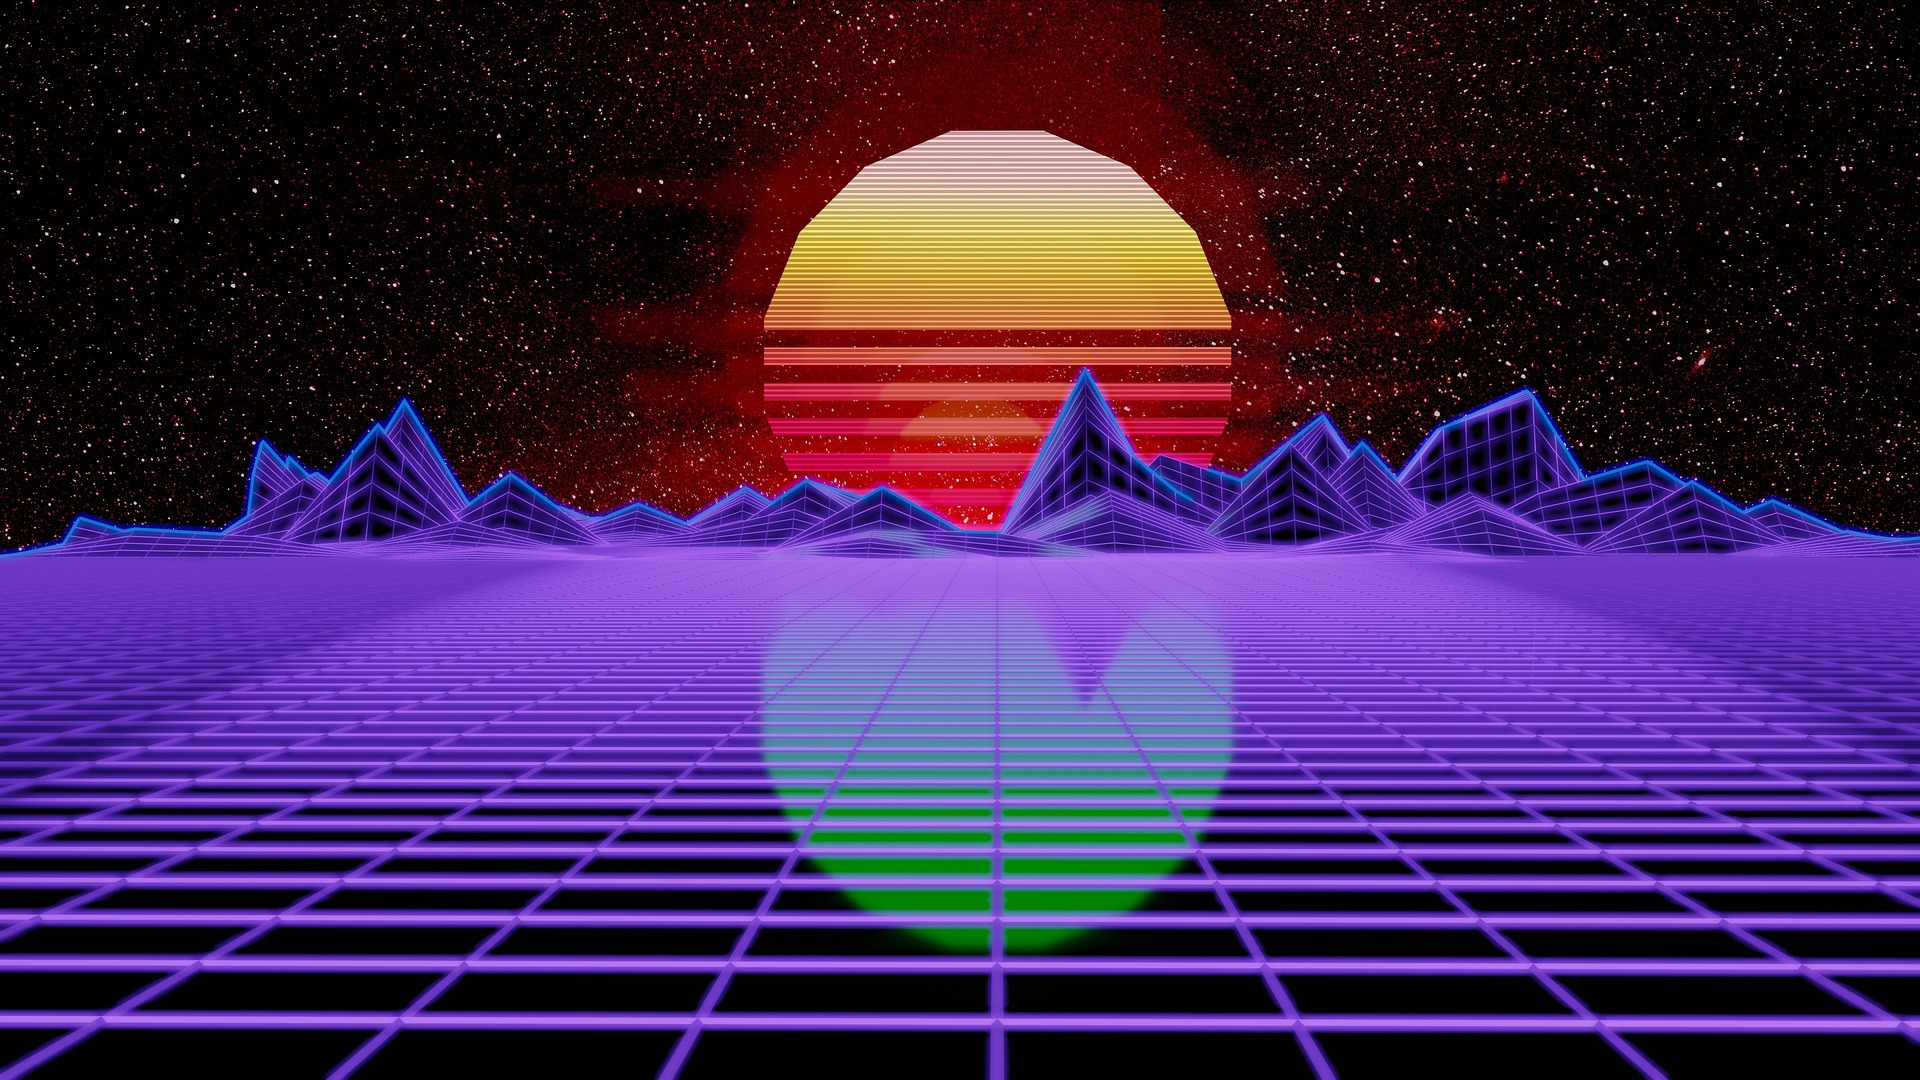
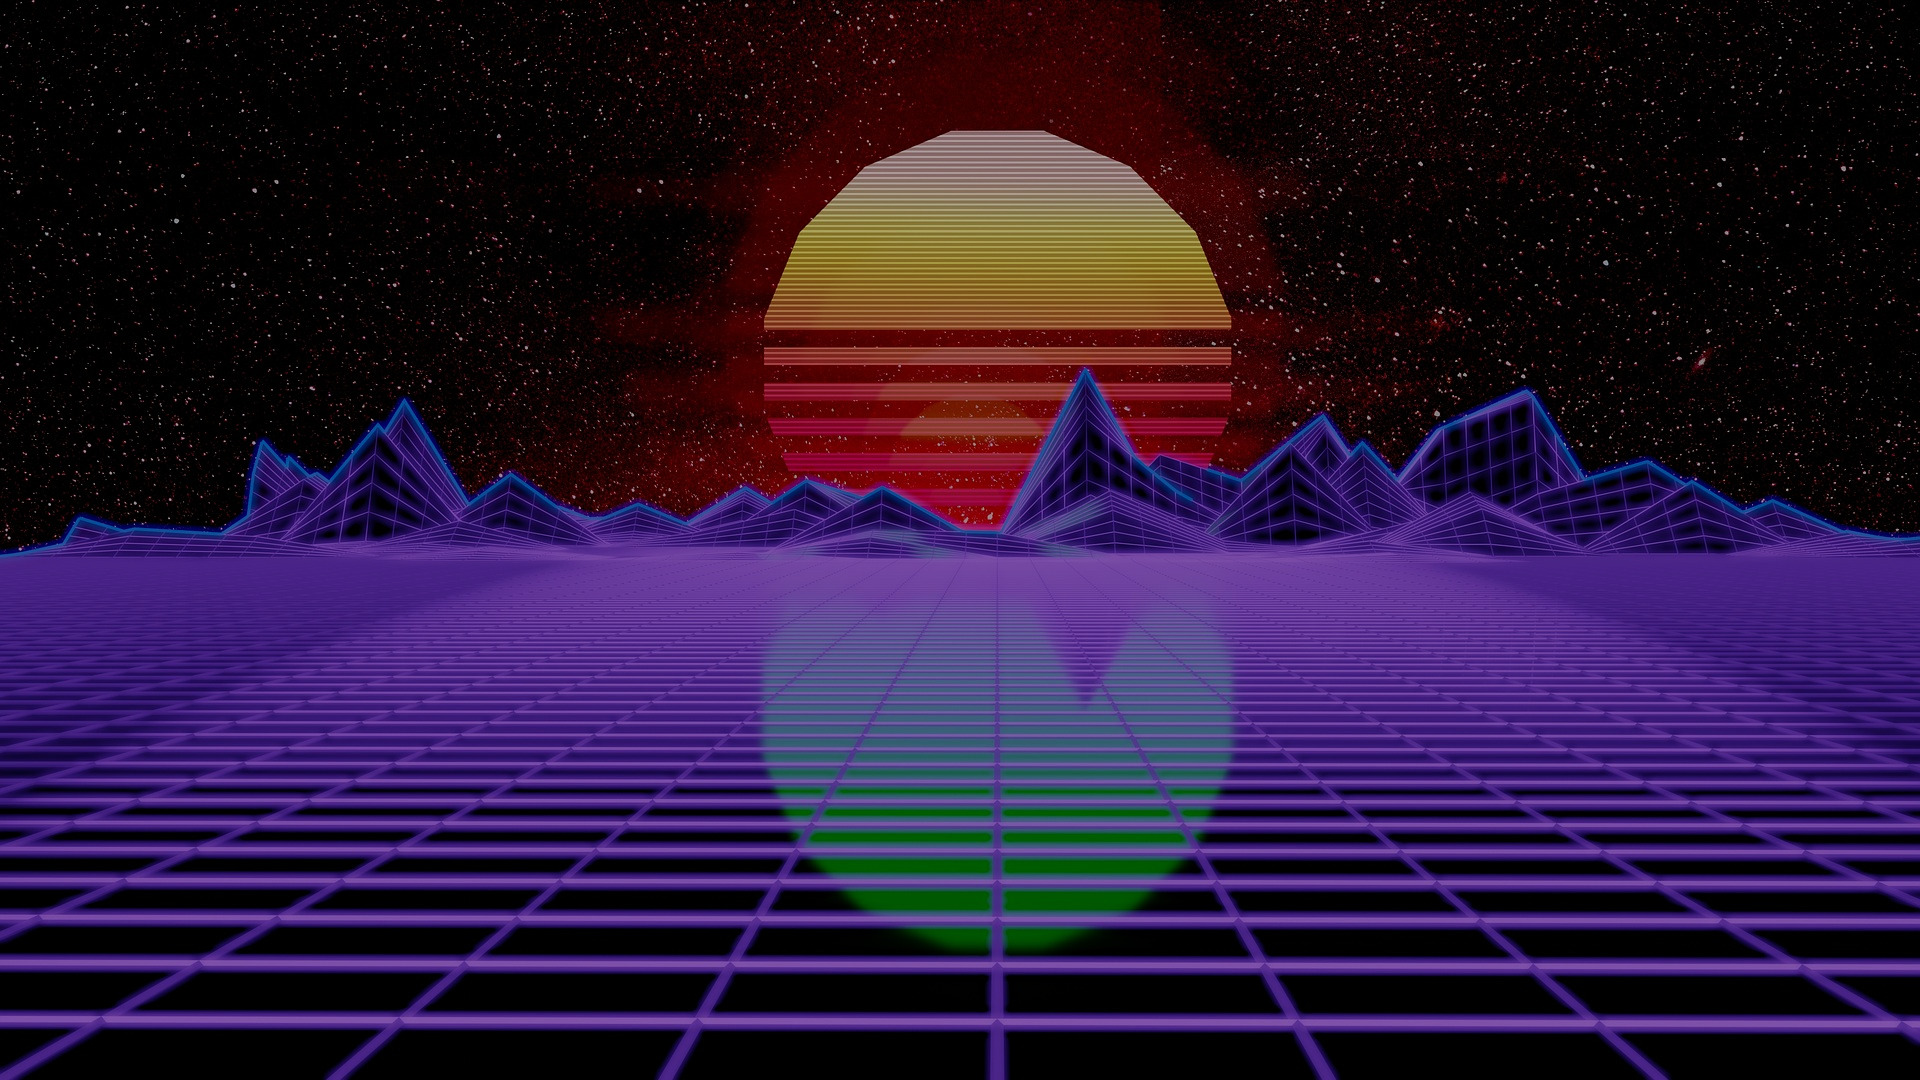
v01-01-24

diff --git a/src/templates/styles/default.css b/src/templates/styles/default.css
@@ -1,5 +1,5 @@
 body {
-  background: url(../../images/bg-80s.jpg) no-repeat center center fixed; 
+  background: url(../../images/bg.png) no-repeat center center fixed; 
    -webkit-background-size: cover;
    -moz-background-size: cover;
    -o-background-size: cover;
@@ -15,6 +15,7 @@ body {
  a:active {
    color: blue !important;
  }
+ 
 @charset "UTF-8";
 /* ==========================================================================
    Styling and layout for all media
